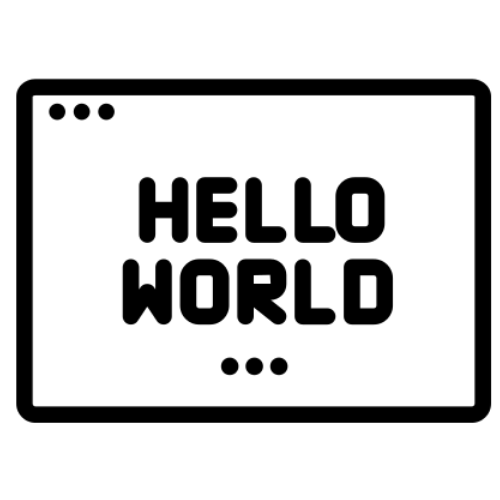
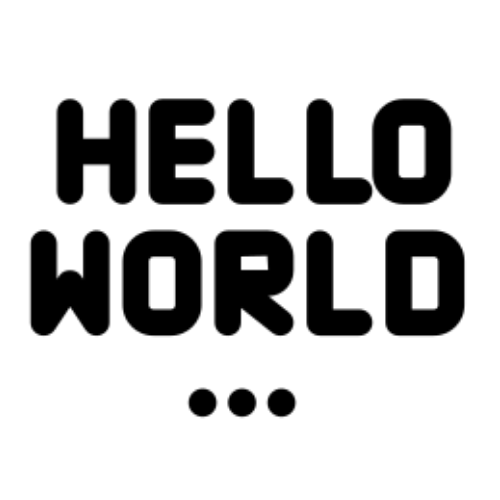
Fix plugin, add example

diff --git a/plugin_template/settings.html b/plugin_template/settings.html
@@ -1,6 +1,6 @@
 <div class="form-group">
     <label for="title" class="form-label">Title:</label>
-    <input type="text" id="title" name="title" placeholder="Type something..." required class="form-input">
+    <input type="text" id="title" name="title" placeholder="Hello World" required class="form-input">
 </div>
 
 <script>
@@ -16,7 +16,7 @@
     document.addEventListener('DOMContentLoaded', () => {        
         if (loadPluginSettings) {
             // Populate text inputs
-            document.getElementById('title').value = pluginSettings.title || 'Hello World';
+            document.getElementById('title').value = pluginSettings.title;
         }
     });
 </script>

diff --git a/plugin_template/plugin_template.py b/plugin_template/plugin_template.py
@@ -1,5 +1,6 @@
 from plugins.base_plugin.base_plugin import BasePlugin
 from PIL import Image, ImageDraw, ImageFont
+from utils.app_utils import get_font
 import logging
 
 logger = logging.getLogger(__name__)
@@ -35,17 +36,19 @@ class Template(BasePlugin):
                 The rendered image to be displayed on the device.
         """
         # Example: load a value from plugin settings
-        text = settings.get("title", "Hello World")
+        text = settings.get("title") or "Hello World"
 
         # Target display size, handling display orientation from device config
         dimensions = device_config.get_resolution()
         if device_config.get_config("orientation") == "vertical":
             dimensions = dimensions[::-1]
+        width, height = dimensions
 
         # Create a blank image
         image = Image.new("RGB", (width, height), "white")
         draw = ImageDraw.Draw(image)
-        font = ImageFont.load_default()
+        font_size = width * 0.145
+        font = get_font("Jost", font_size)
 
         # Measure text size
         bbox = draw.textbbox((0, 0), text, font=font)
@@ -54,7 +57,7 @@ class Template(BasePlugin):
 
         # Center text
         x = (width - text_width) // 2
-        y = (height - text_height) // 2
+        y = (height - (text_height*2)) // 2
 
         # Draw text
         draw.text((x, y), text, fill="black", font=font)

diff --git a/README.md b/README.md
@@ -9,7 +9,7 @@ See the [wiki page](https://github.com/fatihak/InkyPi/wiki) for an in depth over
 
 ## Screenshot
 
-![Example of InkyPi-Plugin-Template](./example_1.png)
+![Example of InkyPi-Plugin-Template](./example.png)
 
 ## Installation
 
